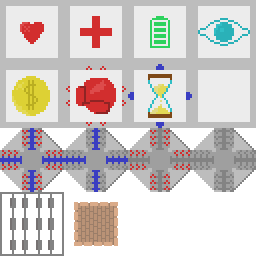
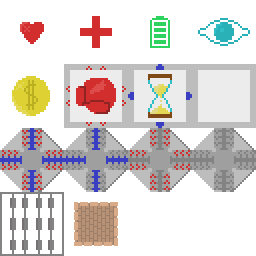
Render new base sprites

Changed region(s): [[0.0, 0.0, 1.0, 0.5]]

diff --git a/src/renderers/pixiRenderer/overrides/base.ts b/src/renderers/pixiRenderer/overrides/base.ts
@@ -1,0 +1,84 @@
+import { Sprite } from "pixi.js";
+import { Agent } from "../../../data/entity/entity";
+import { BASE } from "../layer";
+import { SCALE } from "../constants";
+import { EntityRenderer } from "./types";
+import { BASE_ENTITIES, EntityType } from "../../../data/entity/constants";
+import { AssetsContainer } from "../assets/container";
+import Manager from "../../../data/controllers/manager";
+import { ATLAS_NAME } from "./default";
+
+class Base extends Sprite implements EntityRenderer {
+  public static readonly layer = BASE;
+
+  private static atlas = "base";
+
+  private static neighbors = [
+    [0, -2],
+    [2, 0],
+    [0, 2],
+    [-2, 0],
+  ];
+
+  private static entityToAtlasMap = new Map<EntityType, string>([
+    [EntityType.Base, "buildings0.png"],
+    [EntityType.Armory, "buildings1.png"],
+    [EntityType.Barracks, "buildings1.png"],
+    [EntityType.PowerPlant, "buildings2.png"],
+    [EntityType.Radar, "buildings3.png"],
+    [EntityType.Market, "buildings4.png"],
+  ]);
+
+  private _x: number;
+  private _y: number;
+
+  constructor(data: Agent, private container: AssetsContainer) {
+    super();
+
+    this._x = data.entity.getAlignedX();
+    this._y = data.entity.getAlignedY();
+
+    const texture = Base.entityToAtlasMap.get(data.getType());
+    if (texture) {
+      const icon = new Sprite(
+        this.container.assets![ATLAS_NAME].textures[texture]
+      );
+      icon.anchor.set(0.5);
+      icon.position.set(SCALE, SCALE);
+      this.addChild(icon);
+    }
+
+    this.position.set(this._x * SCALE, this._y * SCALE);
+    this.updateTexture();
+  }
+
+  sync(_: number, full: boolean) {
+    if (!full) {
+      return;
+    }
+
+    this.updateTexture();
+  }
+
+  private updateTexture() {
+    const surface = Manager.Instance.getSurface();
+    let index = "base-";
+
+    for (let i = 0; i < 4; i++) {
+      const neighbor = surface.getTile(
+        this._x + Base.neighbors[i][0],
+        this._y + Base.neighbors[i][1]
+      );
+
+      index +=
+        neighbor?.hasStaticEntity() &&
+        BASE_ENTITIES.has(neighbor.getStaticEntity().getAgent().getType())
+          ? "0"
+          : "1";
+    }
+
+    this.texture = this.container.assets![Base.atlas].textures[index];
+  }
+}
+
+export { Base };

diff --git a/src/renderers/pixiRenderer/overrides/index.ts b/src/renderers/pixiRenderer/overrides/index.ts
@@ -1,4 +1,4 @@
-import { EntityType } from "../../../data/entity/constants";
+import { BASE_ENTITIES, EntityType } from "../../../data/entity/constants";
 import { Blueprint } from "./blueprint";
 import { Flame } from "./flame";
 import { Flier } from "./flier";
@@ -16,6 +16,7 @@ import { Spark } from "./spark";
 import { Wall } from "./wall";
 import { Foliage } from "./foliage";
 import { Stump } from "./stump";
+import { Base } from "./base";
 
 export const spriteOverrideAssets = {
   runner: `${import.meta.env.BASE_URL}animations/runner.json`,
@@ -35,6 +36,7 @@ export const spriteOverrideAssets = {
   wall: `${import.meta.env.BASE_URL}tiles/wall.json`,
   fence: `${import.meta.env.BASE_URL}tiles/fence.json`,
   foliage: `${import.meta.env.BASE_URL}tiles/foliage.json`,
+  base: `${import.meta.env.BASE_URL}tiles/baseAtlas.json`,
 };
 
 export const OVERRIDES: Partial<Record<EntityType, Constructor | null>> = {
@@ -63,4 +65,11 @@ export const OVERRIDES: Partial<Record<EntityType, Constructor | null>> = {
   [EntityType.Tree]: Foliage,
   [EntityType.Stump]: Stump,
   [EntityType.Rock]: Foliage,
+  ...[...BASE_ENTITIES].reduce(
+    (entities, entity) => ({
+      ...entities,
+      [entity]: Base,
+    }),
+    {}
+  ),
 };

diff --git a/src/renderers/pixiRenderer/overrides/default.ts b/src/renderers/pixiRenderer/overrides/default.ts
@@ -7,14 +7,8 @@ import { EntityType } from "../../../data/entity/constants";
 import { AssetsContainer } from "../assets/container";
 
 export const ATLAS_NAME = "buildings";
-const DEFAULT_SPRITE = "buildings0.png";
+const DEFAULT_SPRITE = "buildings4.png";
 const ENTITY_TO_ATLAS_MAP = new Map<EntityType, string>([
-  [EntityType.Base, "buildings0.png"],
-  [EntityType.Armory, "buildings1.png"],
-  [EntityType.Barracks, "buildings1.png"],
-  [EntityType.PowerPlant, "buildings2.png"],
-  [EntityType.Radar, "buildings3.png"],
-  [EntityType.Market, "buildings4.png"],
   [EntityType.DamageBeacon, "buildings5.png"],
   [EntityType.SpeedBeacon, "buildings6.png"],
   [EntityType.Freezer, "buildings12.png"],
